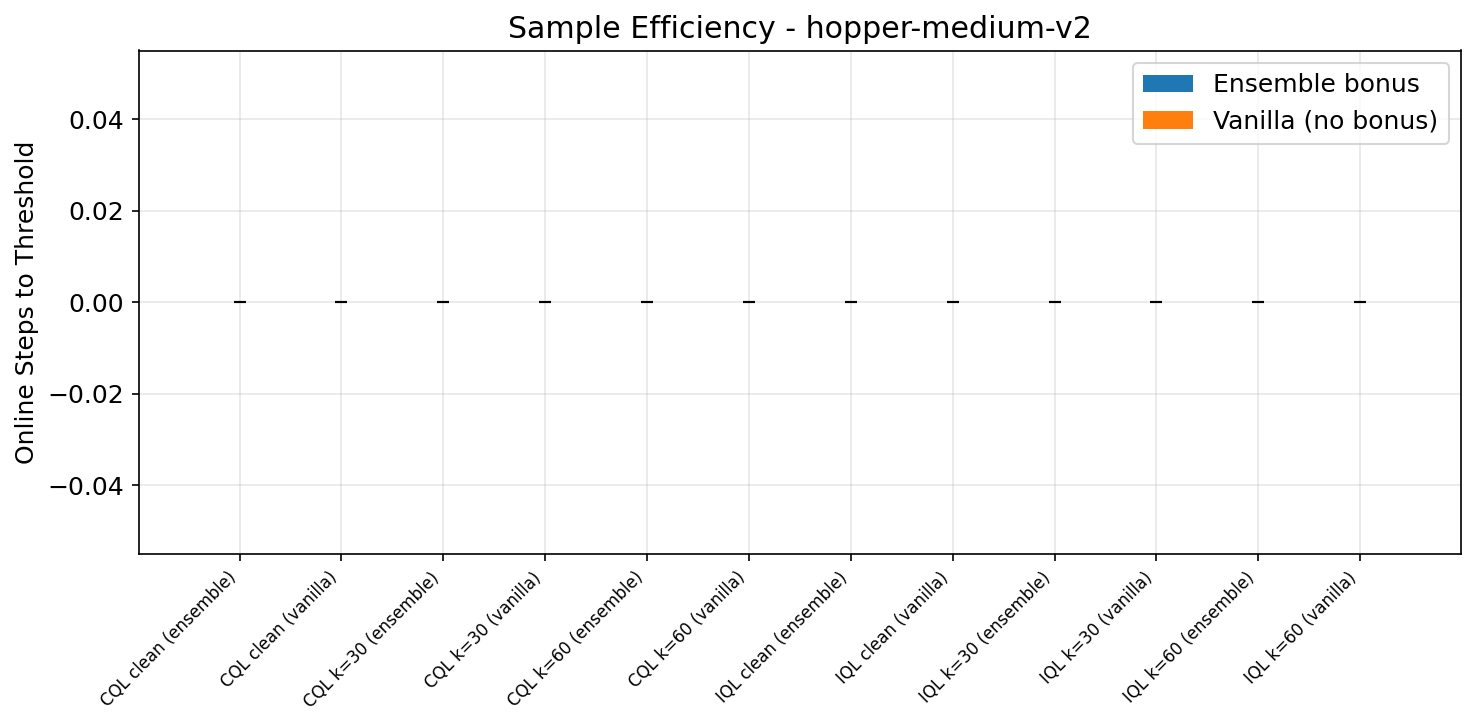
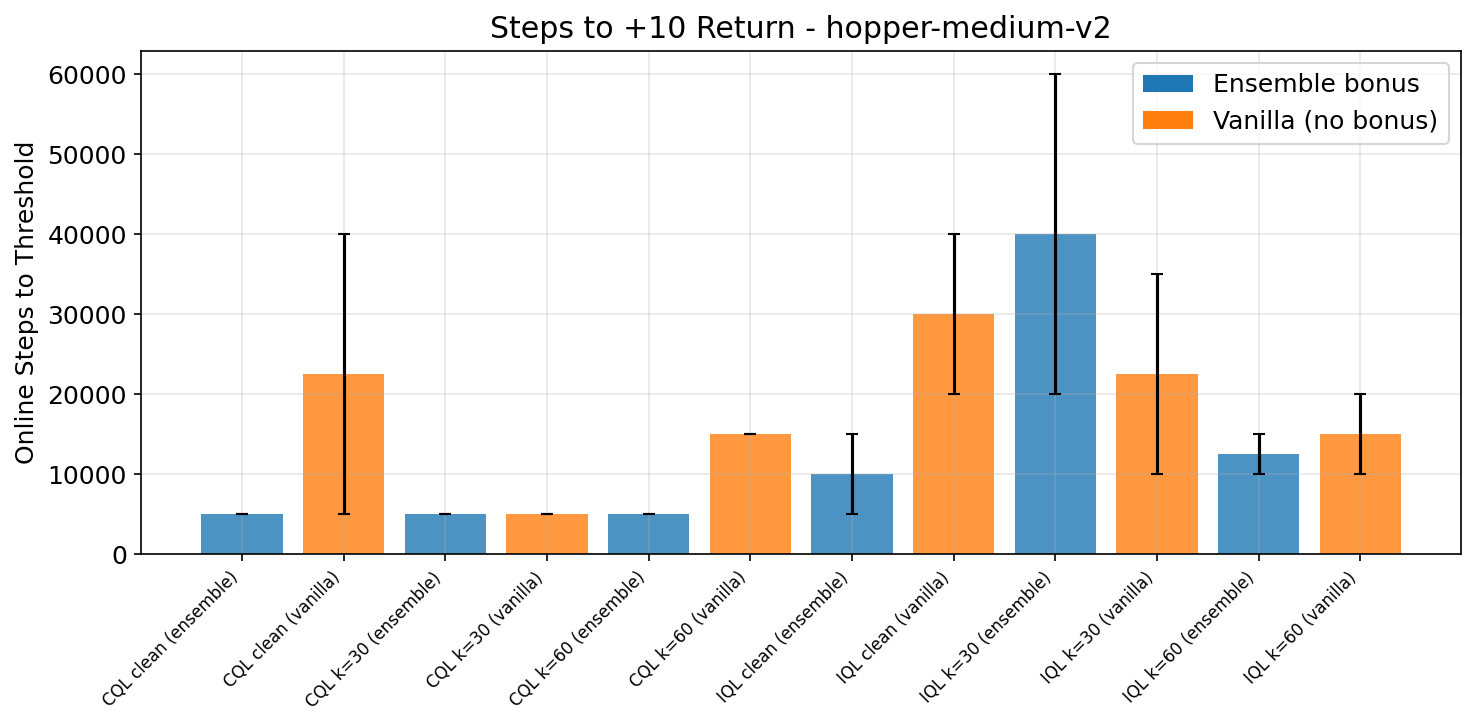
phase 2 plots

diff --git a/run_phase2.py b/run_phase2.py
@@ -42,7 +42,12 @@ from typing import Dict, List
 import numpy as np
 
 from src.finetune import finetune, FinetuneConfig
-from src.eval.plotting import plot_finetuning_curves, plot_sample_efficiency
+from src.eval.plotting import (
+    plot_finetuning_curves,
+    plot_bonus_comparison,
+    plot_ensemble_disagreement,
+    plot_sample_efficiency,
+)
 
 
 # --------------------------------------------------------------------------- #
@@ -207,27 +212,95 @@ def generate_plots(
                 )
                 print(f"[plot] Saved fine-tuning curves for {algo} {env}")
 
-        # ---- Sample efficiency (one plot per env) -------------------- #
-        # Compare ensemble vs vanilla across corruption levels
-        efficiency_data: Dict[str, Dict[str, float]] = {}
+        # ---- Bonus comparison bar chart (one per env) ---------------- #
+        corruption_labels = ["clean" if k == 0 else f"k={int(k)}" for k in corruptions]
+        ensemble_scores: Dict[str, List[float]] = {}
+        vanilla_scores: Dict[str, List[float]] = {}
+        ensemble_stds: Dict[str, List[float]] = {}
+        vanilla_stds: Dict[str, List[float]] = {}
 
+        for algo in algos:
+            ens_means, van_means = [], []
+            ens_sds, van_sds = [], []
+            for k in corruptions:
+                for bonus_type, means_list, sds_list in [
+                    ("ensemble", ens_means, ens_sds),
+                    ("none", van_means, van_sds),
+                ]:
+                    seed_finals = []
+                    for seed in seeds:
+                        m = _load_metrics(save_dir, algo, env, k, bonus_type, seed, reward_noise_std)
+                        if m and m["normalized_return"]:
+                            seed_finals.append(m["normalized_return"][-1])
+                    means_list.append(float(np.mean(seed_finals)) if seed_finals else 0.0)
+                    sds_list.append(float(np.std(seed_finals)) if len(seed_finals) > 1 else 0.0)
+
+            ensemble_scores[algo.upper()] = ens_means
+            vanilla_scores[algo.upper()] = van_means
+            ensemble_stds[algo.upper()] = ens_sds
+            vanilla_stds[algo.upper()] = van_sds
+
+        if any(ensemble_scores.values()) or any(vanilla_scores.values()):
+            plot_bonus_comparison(
+                list(ensemble_scores.keys()),
+                corruption_labels,
+                ensemble_scores,
+                vanilla_scores,
+                ensemble_stds,
+                vanilla_stds,
+                title=f"Ensemble vs Vanilla - {env}",
+                save_path=f"{plot_dir}/bonus_comparison_{env}.png",
+            )
+            print(f"[plot] Saved bonus comparison for {env}")
+
+        # ---- Ensemble disagreement over training (one per algo+env) -- #
+        for algo in algos:
+            disagree_data: Dict[str, Dict[str, list]] = {}
+            for k in corruptions:
+                all_disagree = []
+                train_steps = None
+                for seed in seeds:
+                    m = _load_metrics(save_dir, algo, env, k, "ensemble", seed, reward_noise_std)
+                    if m is None or "ensemble_disagreement" not in m:
+                        continue
+                    all_disagree.append(m["ensemble_disagreement"])
+                    train_steps = m.get("train_step", m["step"][1:])  # train_step or eval steps
+                if not all_disagree or train_steps is None:
+                    continue
+                min_len = min(len(d) for d in all_disagree)
+                arr = np.array([d[:min_len] for d in all_disagree])
+                k_label = f"k={int(k)}" if k > 0 else "clean"
+                disagree_data[k_label] = {
+                    "train_step": train_steps[:min_len],
+                    "ensemble_disagreement": arr.mean(axis=0).tolist(),
+                    "ensemble_disagreement_std": arr.std(axis=0).tolist(),
+                }
+            if disagree_data:
+                plot_ensemble_disagreement(
+                    disagree_data,
+                    title=f"Ensemble Disagreement - {algo.upper()} {env}",
+                    save_path=f"{plot_dir}/disagreement_{algo}_{env}.png",
+                )
+                print(f"[plot] Saved disagreement plot for {algo} {env}")
+
+        # ---- Sample efficiency (one per env) ------------------------- #
+        # Measure steps to gain +10 normalized return from each run's starting
+        # performance.  This is independent of absolute performance level and
+        # fairly compares ensemble vs vanilla across all corruption levels.
+        IMPROVEMENT_DELTA = 10.0
+        efficiency_data: Dict[str, Dict[str, float]] = {}
         for algo, k in product(algos, corruptions):
             for bonus_type in bonus_types:
                 steps_to_threshold = []
                 for seed in seeds:
                     m = _load_metrics(save_dir, algo, env, k, bonus_type, seed, reward_noise_std)
-                    if m is None:
+                    if m is None or not m["normalized_return"]:
                         continue
-                    # Find first step where normalized return exceeds threshold.
-                    # Use the clean-dataset offline performance as threshold.
-                    clean_m = _load_metrics(save_dir, algo, env, 0.0, bonus_type, seed, reward_noise_std)
-                    if clean_m is None or not clean_m["normalized_return"]:
-                        continue
-                    # Threshold: 80% of the clean offline starting performance
-                    threshold = clean_m["normalized_return"][0] * 0.8
+                    start_perf = m["normalized_return"][0]
+                    target = start_perf + IMPROVEMENT_DELTA
                     found = False
                     for step, ret in zip(m["step"], m["normalized_return"]):
-                        if ret >= threshold:
+                        if ret >= target:
                             steps_to_threshold.append(step)
                             found = True
                             break
@@ -246,10 +319,10 @@ def generate_plots(
         if efficiency_data:
             plot_sample_efficiency(
                 efficiency_data,
-                title=f"Sample Efficiency - {env}",
+                title=f"Steps to +{int(IMPROVEMENT_DELTA)} Return - {env}",
                 save_path=f"{plot_dir}/sample_efficiency_{env}.png",
             )
-            print(f"[plot] Saved sample efficiency plot for {env}")
+            print(f"[plot] Saved sample efficiency for {env}")
 
 
 # --------------------------------------------------------------------------- #

diff --git a/src/eval/plotting.py b/src/eval/plotting.py
@@ -234,25 +234,45 @@ def plot_finetuning_curves(
 ):
     """Plot fine-tuning learning curves comparing ensemble vs vanilla.
 
-    Same format as ``plot_learning_curves`` but styled for Phase II
-    with solid lines for ensemble and dashed lines for vanilla.
+    One subplot per corruption level so each panel has only two lines
+    (ensemble vs vanilla), making the comparison easy to read.
     """
-    fig, ax = plt.subplots()
-    for i, (label, data) in enumerate(results.items()):
-        xs = data[x_key]
-        ys = data[y_key]
-        color = COLORS[i % len(COLORS)]
-        linestyle = "--" if "vanilla" in label else "-"
-        ax.plot(xs, ys, label=label, color=color, linewidth=1.5, linestyle=linestyle)
-        std_key = y_key + "_std"
-        if std_key in data:
-            stds = np.array(data[std_key])
-            ys_arr = np.array(ys)
-            ax.fill_between(xs, ys_arr - stds, ys_arr + stds, color=color, alpha=0.15)
-    ax.set_title(title)
-    ax.set_xlabel(xlabel)
-    ax.set_ylabel(ylabel)
-    ax.legend(loc="best", fontsize=9)
+    # Group results by corruption level.
+    panels: Dict[str, Dict[str, Dict]] = {}  # corruption_tag -> {bonus_label -> data}
+    for label, data in results.items():
+        corruption_tag = label.split("(")[0].strip()
+        panels.setdefault(corruption_tag, {})[label] = data
+
+    n_panels = max(len(panels), 1)
+    fig, axes = plt.subplots(1, n_panels, figsize=(5.5 * n_panels, 4.5), sharey=True)
+    if n_panels == 1:
+        axes = [axes]
+
+    for ax, (corruption_tag, entries) in zip(axes, panels.items()):
+        for label, data in entries.items():
+            xs = data[x_key]
+            ys = data[y_key]
+            is_vanilla = "vanilla" in label
+            color = COLORS[1] if is_vanilla else COLORS[0]
+            linestyle = "--" if is_vanilla else "-"
+            short_label = "Vanilla" if is_vanilla else "Ensemble"
+            ax.plot(xs, ys, label=short_label, color=color, linewidth=1.8,
+                    linestyle=linestyle)
+            std_key = y_key + "_std"
+            if std_key in data:
+                stds = np.array(data[std_key])
+                ys_arr = np.array(ys)
+                ax.fill_between(xs, ys_arr - stds, ys_arr + stds,
+                                color=color, alpha=0.15)
+        ax.set_title(corruption_tag, fontsize=13, fontweight="bold")
+        ax.set_xlabel(xlabel)
+        ax.legend(fontsize=10, loc="lower right")
+        ax.xaxis.set_major_formatter(
+            plt.FuncFormatter(lambda x, _: f"{x/1e3:.0f}k" if x >= 1e3 else f"{x:.0f}"))
+
+    axes[0].set_ylabel(ylabel)
+    fig.suptitle(title, fontsize=14, y=1.02)
+    fig.tight_layout()
     _save(fig, Path(save_path), show)
 
 
@@ -296,4 +316,96 @@ def plot_sample_efficiency(
     ]
     ax.legend(handles=legend_elements)
     fig.tight_layout()
+    _save(fig, Path(save_path), show)
+
+
+# --------------------------------------------------------------------------- #
+#  Phase II: Bonus comparison bar chart
+# --------------------------------------------------------------------------- #
+
+def plot_bonus_comparison(
+    algo_names: List[str],
+    corruption_levels: List[str],
+    ensemble_scores: Dict[str, List[float]],
+    vanilla_scores: Dict[str, List[float]],
+    ensemble_stds: Optional[Dict[str, List[float]]] = None,
+    vanilla_stds: Optional[Dict[str, List[float]]] = None,
+    title: str = "Ensemble vs Vanilla Fine-tuning",
+    save_path: str | Path = "plots_phase2/bonus_comparison.png",
+    show: bool = False,
+):
+    """Grouped bar chart comparing ensemble vs vanilla final performance.
+
+    One subplot per algorithm, bars grouped by corruption level.
+    """
+    n_algos = max(len(algo_names), 1)
+    fig, axes = plt.subplots(1, n_algos, figsize=(5 * n_algos, 5), sharey=True)
+    if n_algos == 1:
+        axes = [axes]
+
+    x = np.arange(len(corruption_levels))
+    width = 0.35
+
+    for ax, algo in zip(axes, algo_names):
+        ens_vals = ensemble_scores[algo]
+        van_vals = vanilla_scores[algo]
+        ens_err = ensemble_stds[algo] if ensemble_stds else None
+        van_err = vanilla_stds[algo] if vanilla_stds else None
+
+        ax.bar(x - width / 2, ens_vals, width, yerr=ens_err, capsize=4,
+               label="Ensemble", color=COLORS[0], alpha=0.85, edgecolor="white")
+        ax.bar(x + width / 2, van_vals, width, yerr=van_err, capsize=4,
+               label="Vanilla", color=COLORS[1], alpha=0.85, edgecolor="white")
+
+        ax.set_title(algo, fontsize=13, fontweight="bold")
+        ax.set_xticks(x)
+        ax.set_xticklabels(corruption_levels)
+        ax.legend(fontsize=10)
+
+    axes[0].set_ylabel("Final Normalized Return")
+    fig.suptitle(title, fontsize=14, y=1.02)
+    fig.tight_layout()
+    _save(fig, Path(save_path), show)
+
+
+# --------------------------------------------------------------------------- #
+#  Phase II: Ensemble disagreement over training
+# --------------------------------------------------------------------------- #
+
+def plot_ensemble_disagreement(
+    results: Dict[str, Dict[str, List[float]]],
+    x_key: str = "train_step",
+    y_key: str = "ensemble_disagreement",
+    title: str = "Ensemble Disagreement",
+    xlabel: str = "Training Steps",
+    ylabel: str = "Mean Q-Ensemble Std",
+    save_path: str | Path = "plots_phase2/disagreement.png",
+    show: bool = False,
+):
+    """Plot ensemble disagreement over online training steps.
+
+    One line per corruption level, showing how disagreement evolves.
+    """
+    _CORRUPTION_COLORS = {
+        "clean": COLORS[0], "k=0": COLORS[0],
+        "k=30": COLORS[1], "k=60": COLORS[2],
+    }
+
+    fig, ax = plt.subplots()
+    for label, data in results.items():
+        xs = data[x_key]
+        ys = data[y_key]
+        color = _CORRUPTION_COLORS.get(label, COLORS[3])
+        ax.plot(xs, ys, label=label, color=color, linewidth=1.5)
+        std_key = y_key + "_std"
+        if std_key in data:
+            stds = np.array(data[std_key])
+            ys_arr = np.array(ys)
+            ax.fill_between(xs, ys_arr - stds, ys_arr + stds, color=color, alpha=0.15)
+    ax.set_title(title)
+    ax.set_xlabel(xlabel)
+    ax.set_ylabel(ylabel)
+    ax.legend(loc="best", fontsize=10)
+    ax.xaxis.set_major_formatter(
+        plt.FuncFormatter(lambda x, _: f"{x/1e3:.0f}k" if x >= 1e3 else f"{x:.0f}"))
     _save(fig, Path(save_path), show)

diff --git a/PROPOSAL.md b/PROPOSAL.md
@@ -40,7 +40,7 @@ This approach is inspired by McInroe et al. (2024), which framed the offline-to-
 
 As an alternative uncertainty signal, we may also evaluate TD-error-based bonuses. We will compare this approach against vanilla online fine-tuning and offline-only baselines to assess the benefits of uncertainty-driven exploration.
 
-Evaluation metrics include sample efficiency (number of online environment steps required to reach a fixed performance threshold), final asymptotic performance, and training stability during the offline-to-online transition. Quantitatively, we will report mean and standard deviation across multiple random seeds and compare methods using learning curves and summary statistics.
+Evaluation metrics include sample efficiency (number of online environment steps required to reach a fixed performance threshold) and final asymptotic performance. Quantitatively, we will report mean and standard deviation across multiple random seeds and compare methods using learning curves and summary statistics.
 
 ---
 
